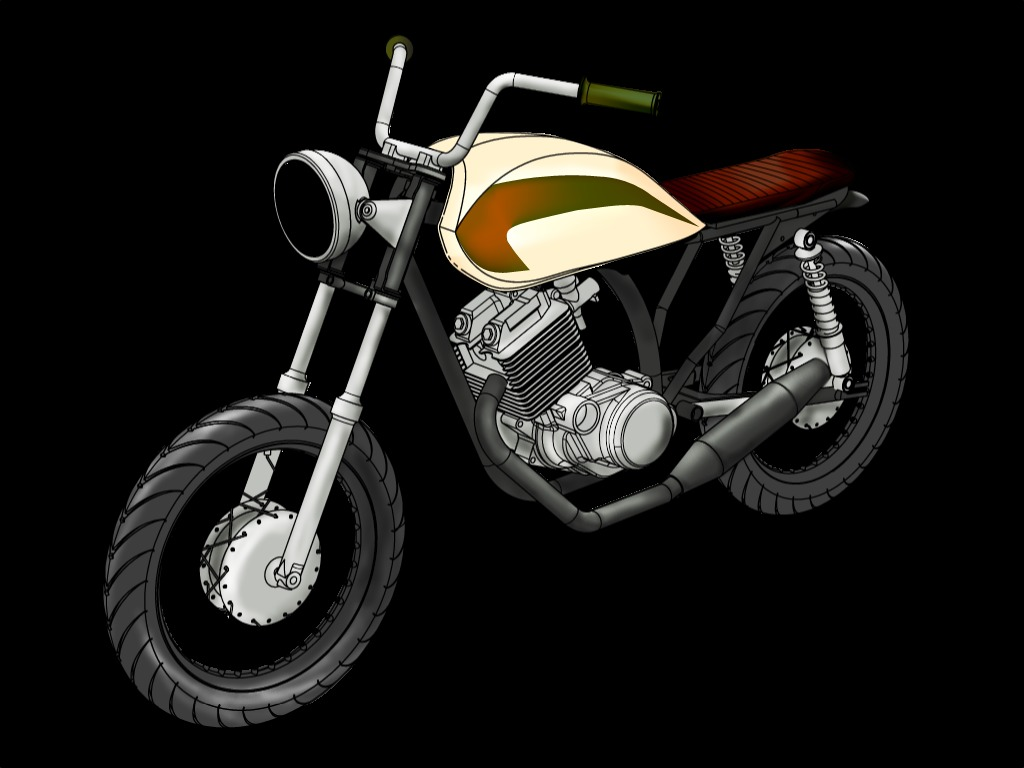
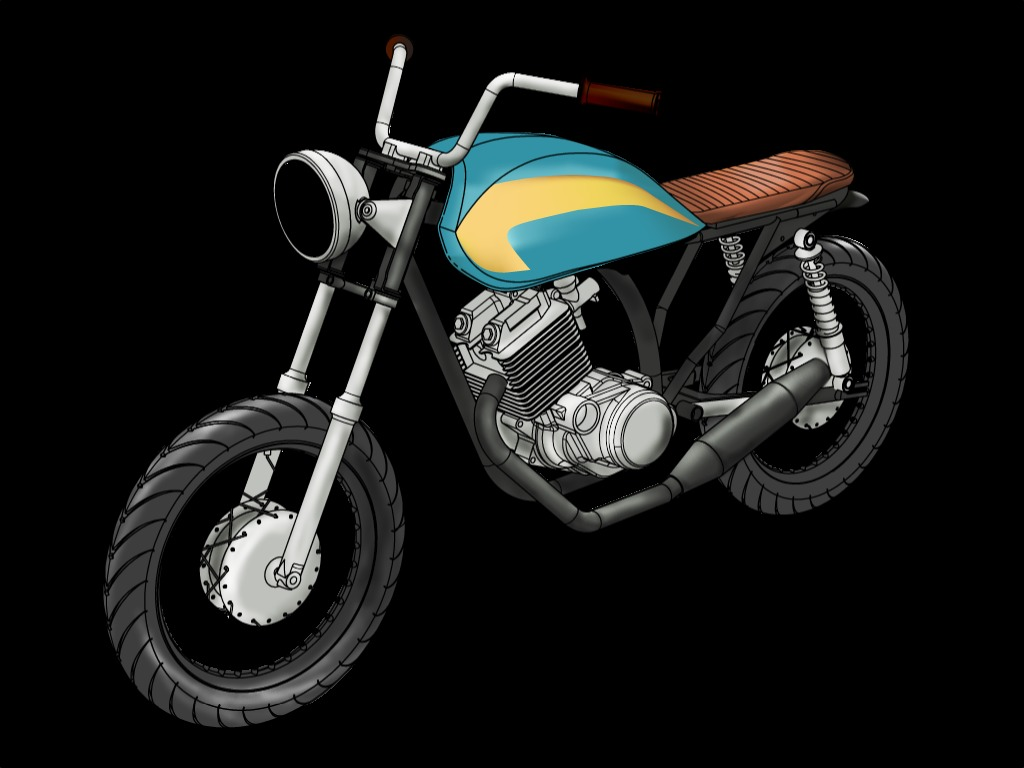
improved nav menu for custom. and customapp for static_pages_controller

Changed region(s): [[0.4062, 0.1562, 0.8438, 0.375], [0.5625, 0.0938, 0.6562, 0.1562], [0.375, 0.0312, 0.4062, 0.0625]]

diff --git a/app/assets/stylesheets/custom.css.scss b/app/assets/stylesheets/custom.css.scss
@@ -412,10 +412,17 @@ span.picture {
     font-size: 30px;
   }
 }
+.customButton{
+  .dropdown-menu {
+    margin-color: #000;
+    border-color: #000;
+    background-color: #000;
+  }
+}
 .dropdown-menu {
   margin-color: #000;
   border-color: #000;
-  background-color: #000;
+  background-color: #fff;
   li {
   }
 }

diff --git a/app/controllers/static_pages_controller.rb b/app/controllers/static_pages_controller.rb
@@ -7,12 +7,13 @@ class StaticPagesController < ApplicationController
       @feed_items = current_user.feed.paginate(page: params[:page],:per_page => 10) # feed declared in user model.
     end
     @userPinon = User.find_by(email: 'admin@pinon.cl') #userPinon para mostrar las motos piñon
-#    if !@userPinon.nil?  # I had to put this in order to pass the test 
-#    @motos = @userPinon.motos.paginate(page: params[:page],  :per_page => 2) 
-#    end
+    if !@userPinon.nil?  # I had to put this in order to pass the test 
+      @motos = @userPinon.motos.paginate(page: params[:page],  :per_page => 2) 
+    end
   end
 
   def customapp 
+    @modelo = params[:modelo]
     gon.archivos 
     gon.update_path
     if logged_in?
@@ -20,7 +21,7 @@ class StaticPagesController < ApplicationController
         @customapp = current_user.custom_apps
         
         if customapp_in?
-          crea_gon_object() # crea objeto gon, con los datos de color de las partes de la moto
+          crea_gon_object() # crea objeto gon, con los datos de color de las partes de la moto => gon.archivos
           gon.update_path = custom_app_path(@customapp)  
         end
 #        puts @customapp.est_lat_file
